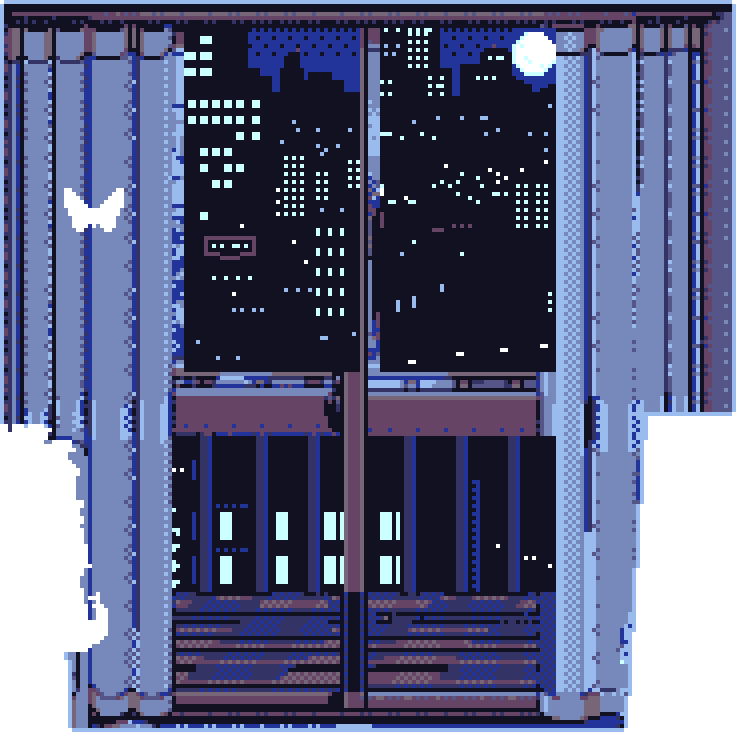
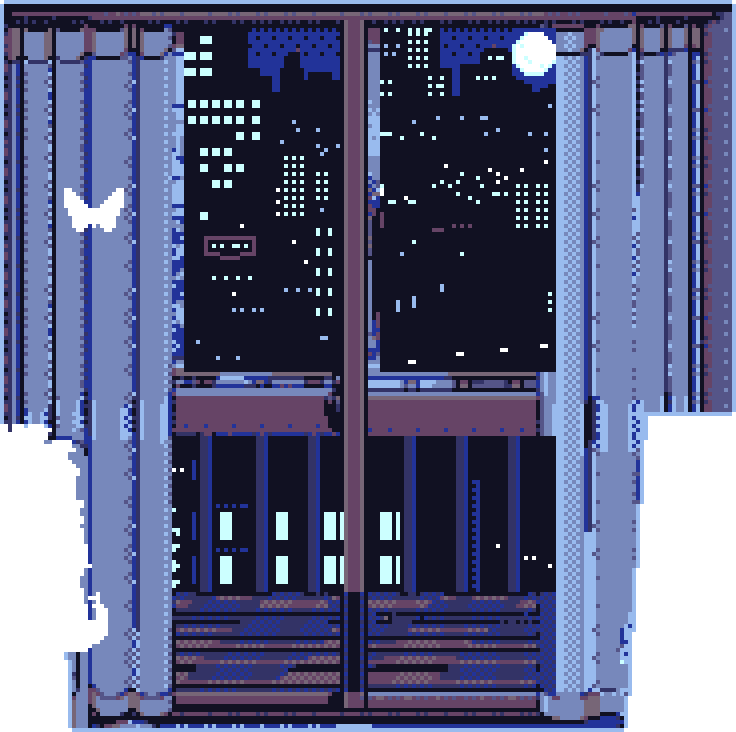
Panda's Room: the sliding doors' middle post runs up through the glass to the head (the night drew it in black above the rail, so the day's view ran over it); the twinkle strip re-exported to match

Changed region(s): [[0.4375, 0.0301, 0.5, 0.5109]]

diff --git a/js/room-data.js b/js/room-data.js
@@ -34,14 +34,14 @@ window.ROOM = {
     dialogue: "bedroom",
     back: "/living-room.html",     // BACK when you didn't come from the site: the bedroom's door is the living room's
     // the room follows the real time of day, and its desk lamp the real bedroom lamp (js/house-room.js)
-    house: { base: "/img/room/house/", v: "5", hud: false },
+    house: { base: "/img/room/house/", v: "6", hud: false },
 
     scene: {
-        src: "/img/room/room@4x.png?v=7",
+        src: "/img/room/room@4x.png?v=8",
         width: 500,
         height: 357,
         // city lights: an 8-frame strip stepped like PC-98 palette cycling (the export's twinkle.json)
-        twinkle: { src: "/img/room/twinkle@4x.png?v=6", x: 191, y: 68, w: 92, h: 87, frames: 8, fps: 2 }
+        twinkle: { src: "/img/room/twinkle@4x.png?v=7", x: 191, y: 68, w: 92, h: 128, frames: 8, fps: 2 }
     },
 
     zOrder: ["controller", "kitsu", "tv", "butterfly", "linkedin", "letter", "stackoverflow", "phone", "lesswrong",

diff --git a/room.html b/room.html
@@ -9,7 +9,7 @@
     <link rel="preload" href="/house/state.json" as="fetch" crossorigin>
     <link href="/css/room.css?version=7" rel="stylesheet" type="text/css" media="all">
     <script src="/js/house-render.js?version=5" defer></script>
-    <script src="/js/room-data.js?version=11" defer></script>
+    <script src="/js/room-data.js?version=12" defer></script>
     <script src="/js/house-room.js?version=10" defer></script>
     <script src="/js/room.js?version=8" defer></script>
     <script src="/js/room-music.js?version=1" defer></script>

diff --git a/templates/room.html b/templates/room.html
@@ -9,7 +9,7 @@
     <link rel="preload" href="/house/state.json" as="fetch" crossorigin>
     <link href="/css/room.css?version=7" rel="stylesheet" type="text/css" media="all">
     <script src="/js/house-render.js?version=5" defer></script>
-    <script src="/js/room-data.js?version=11" defer></script>
+    <script src="/js/room-data.js?version=12" defer></script>
     <script src="/js/house-room.js?version=10" defer></script>
     <script src="/js/room.js?version=8" defer></script>
     <script src="/js/room-music.js?version=1" defer></script>
